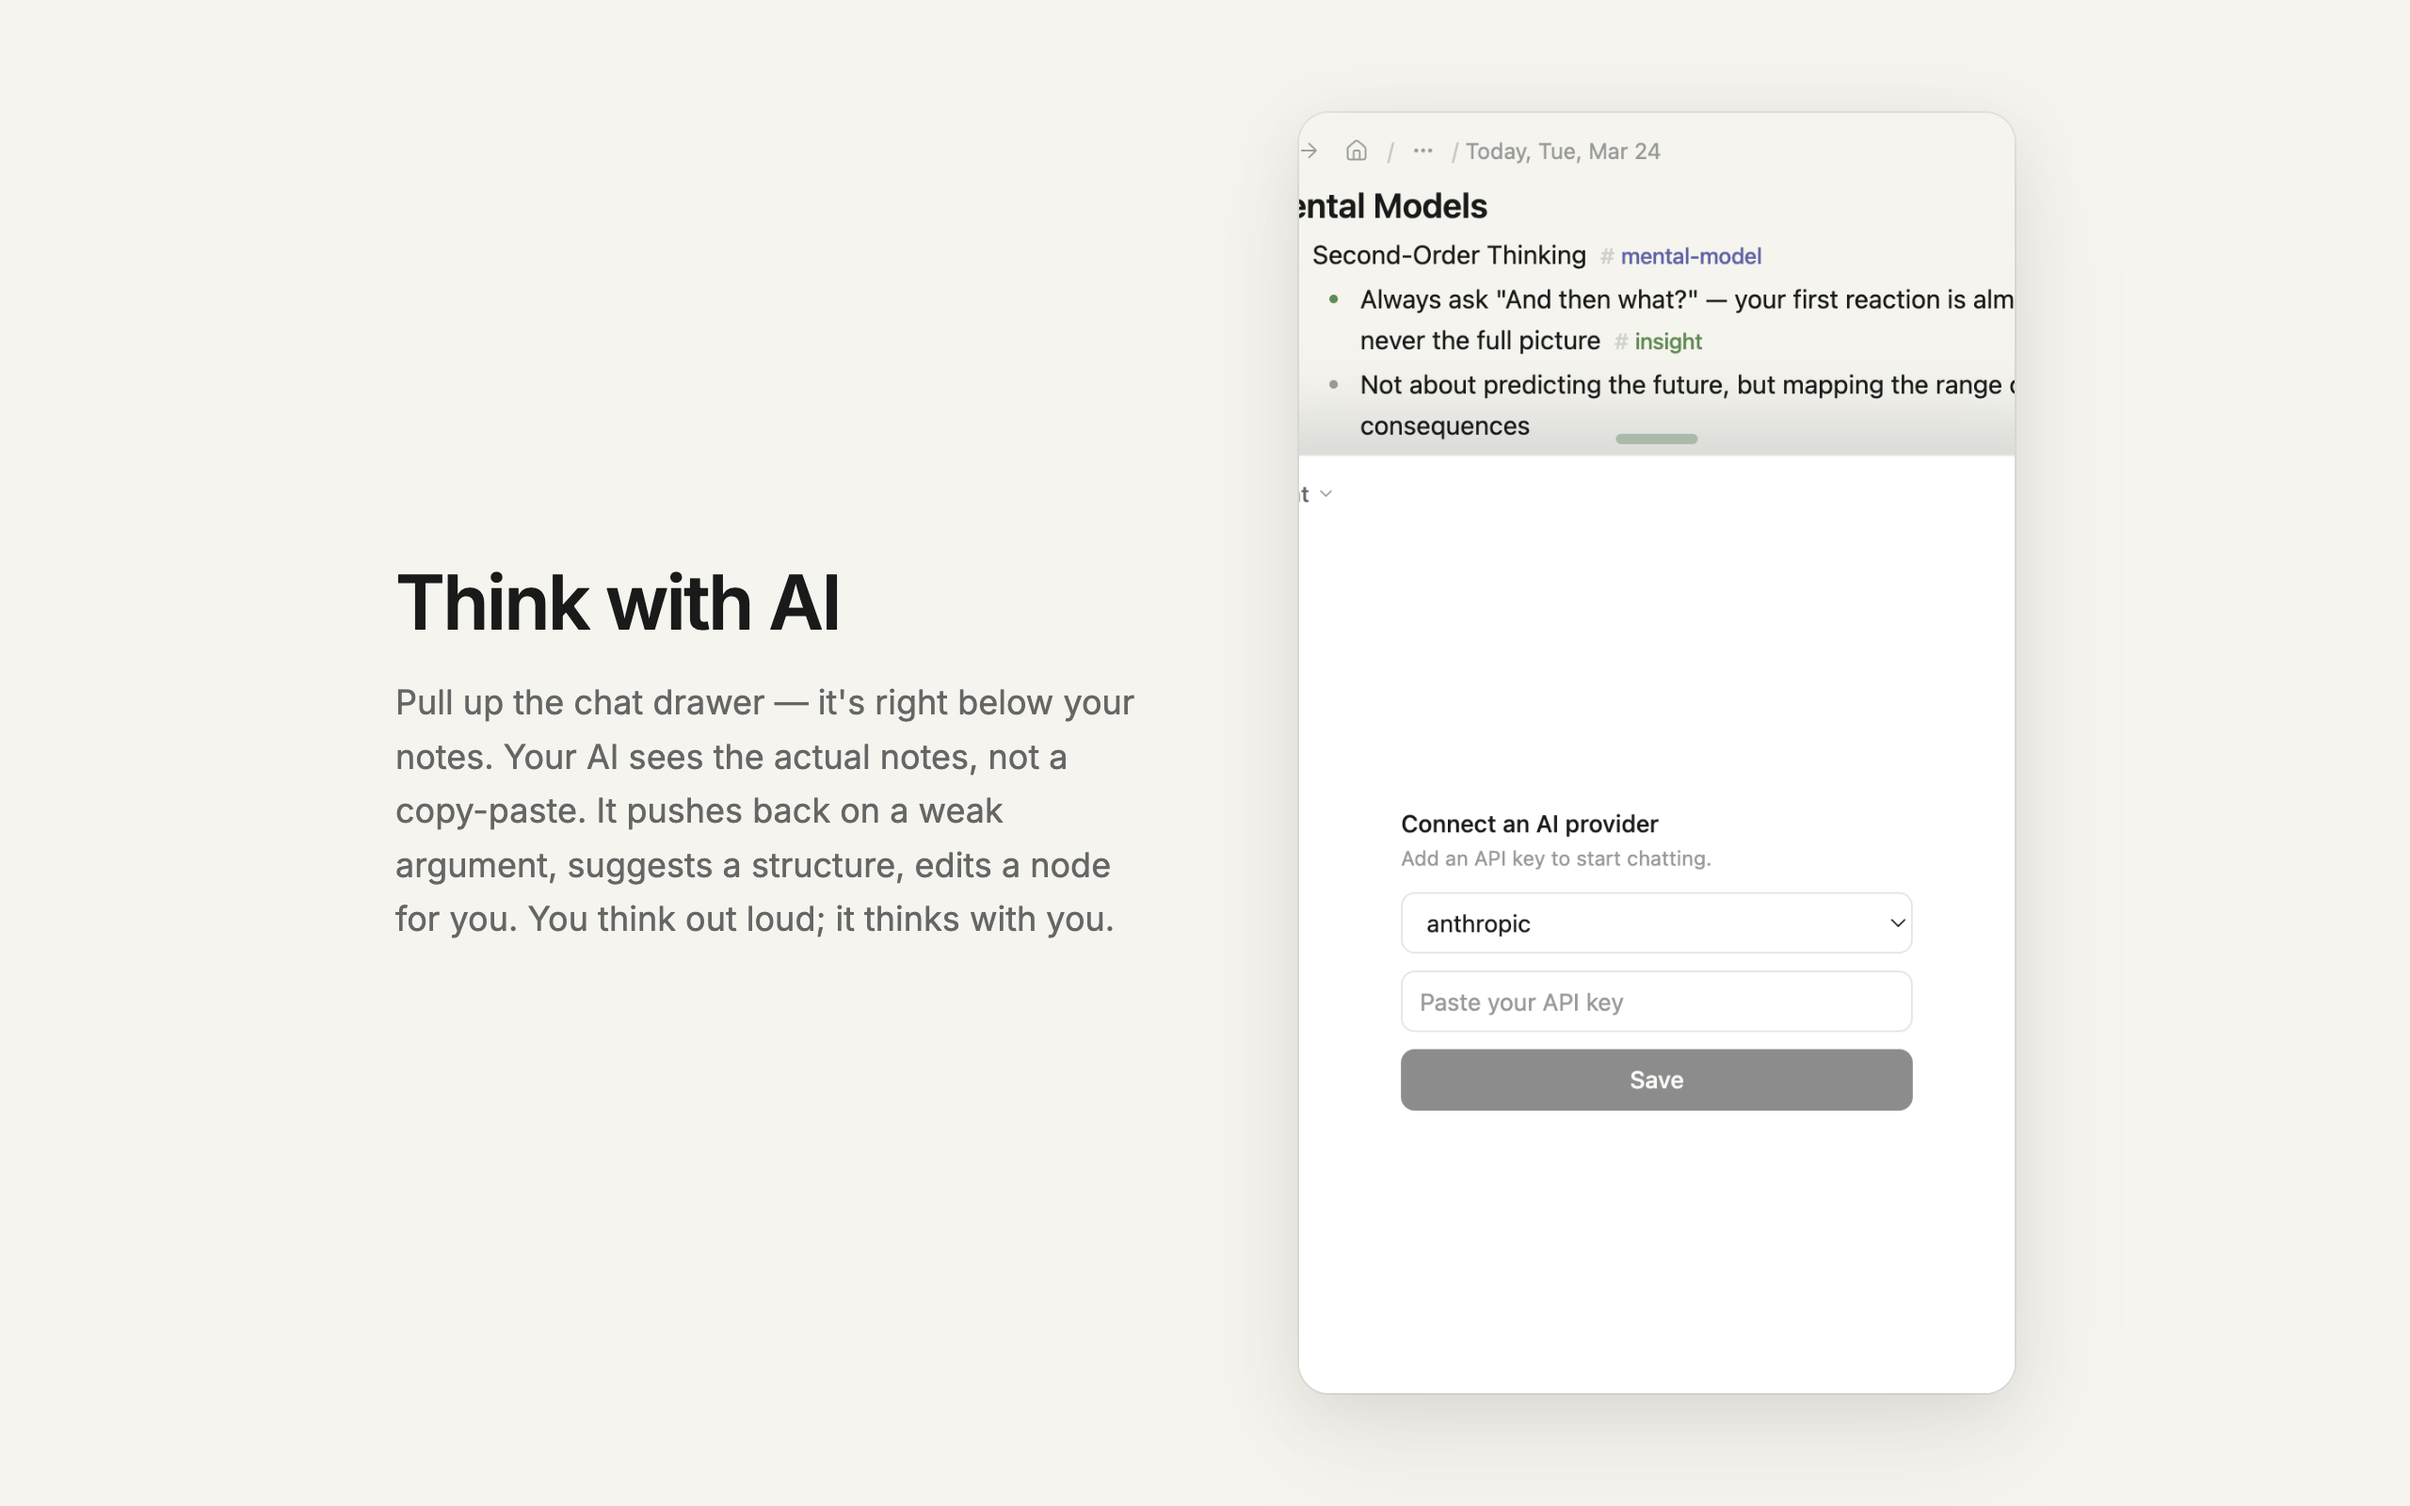
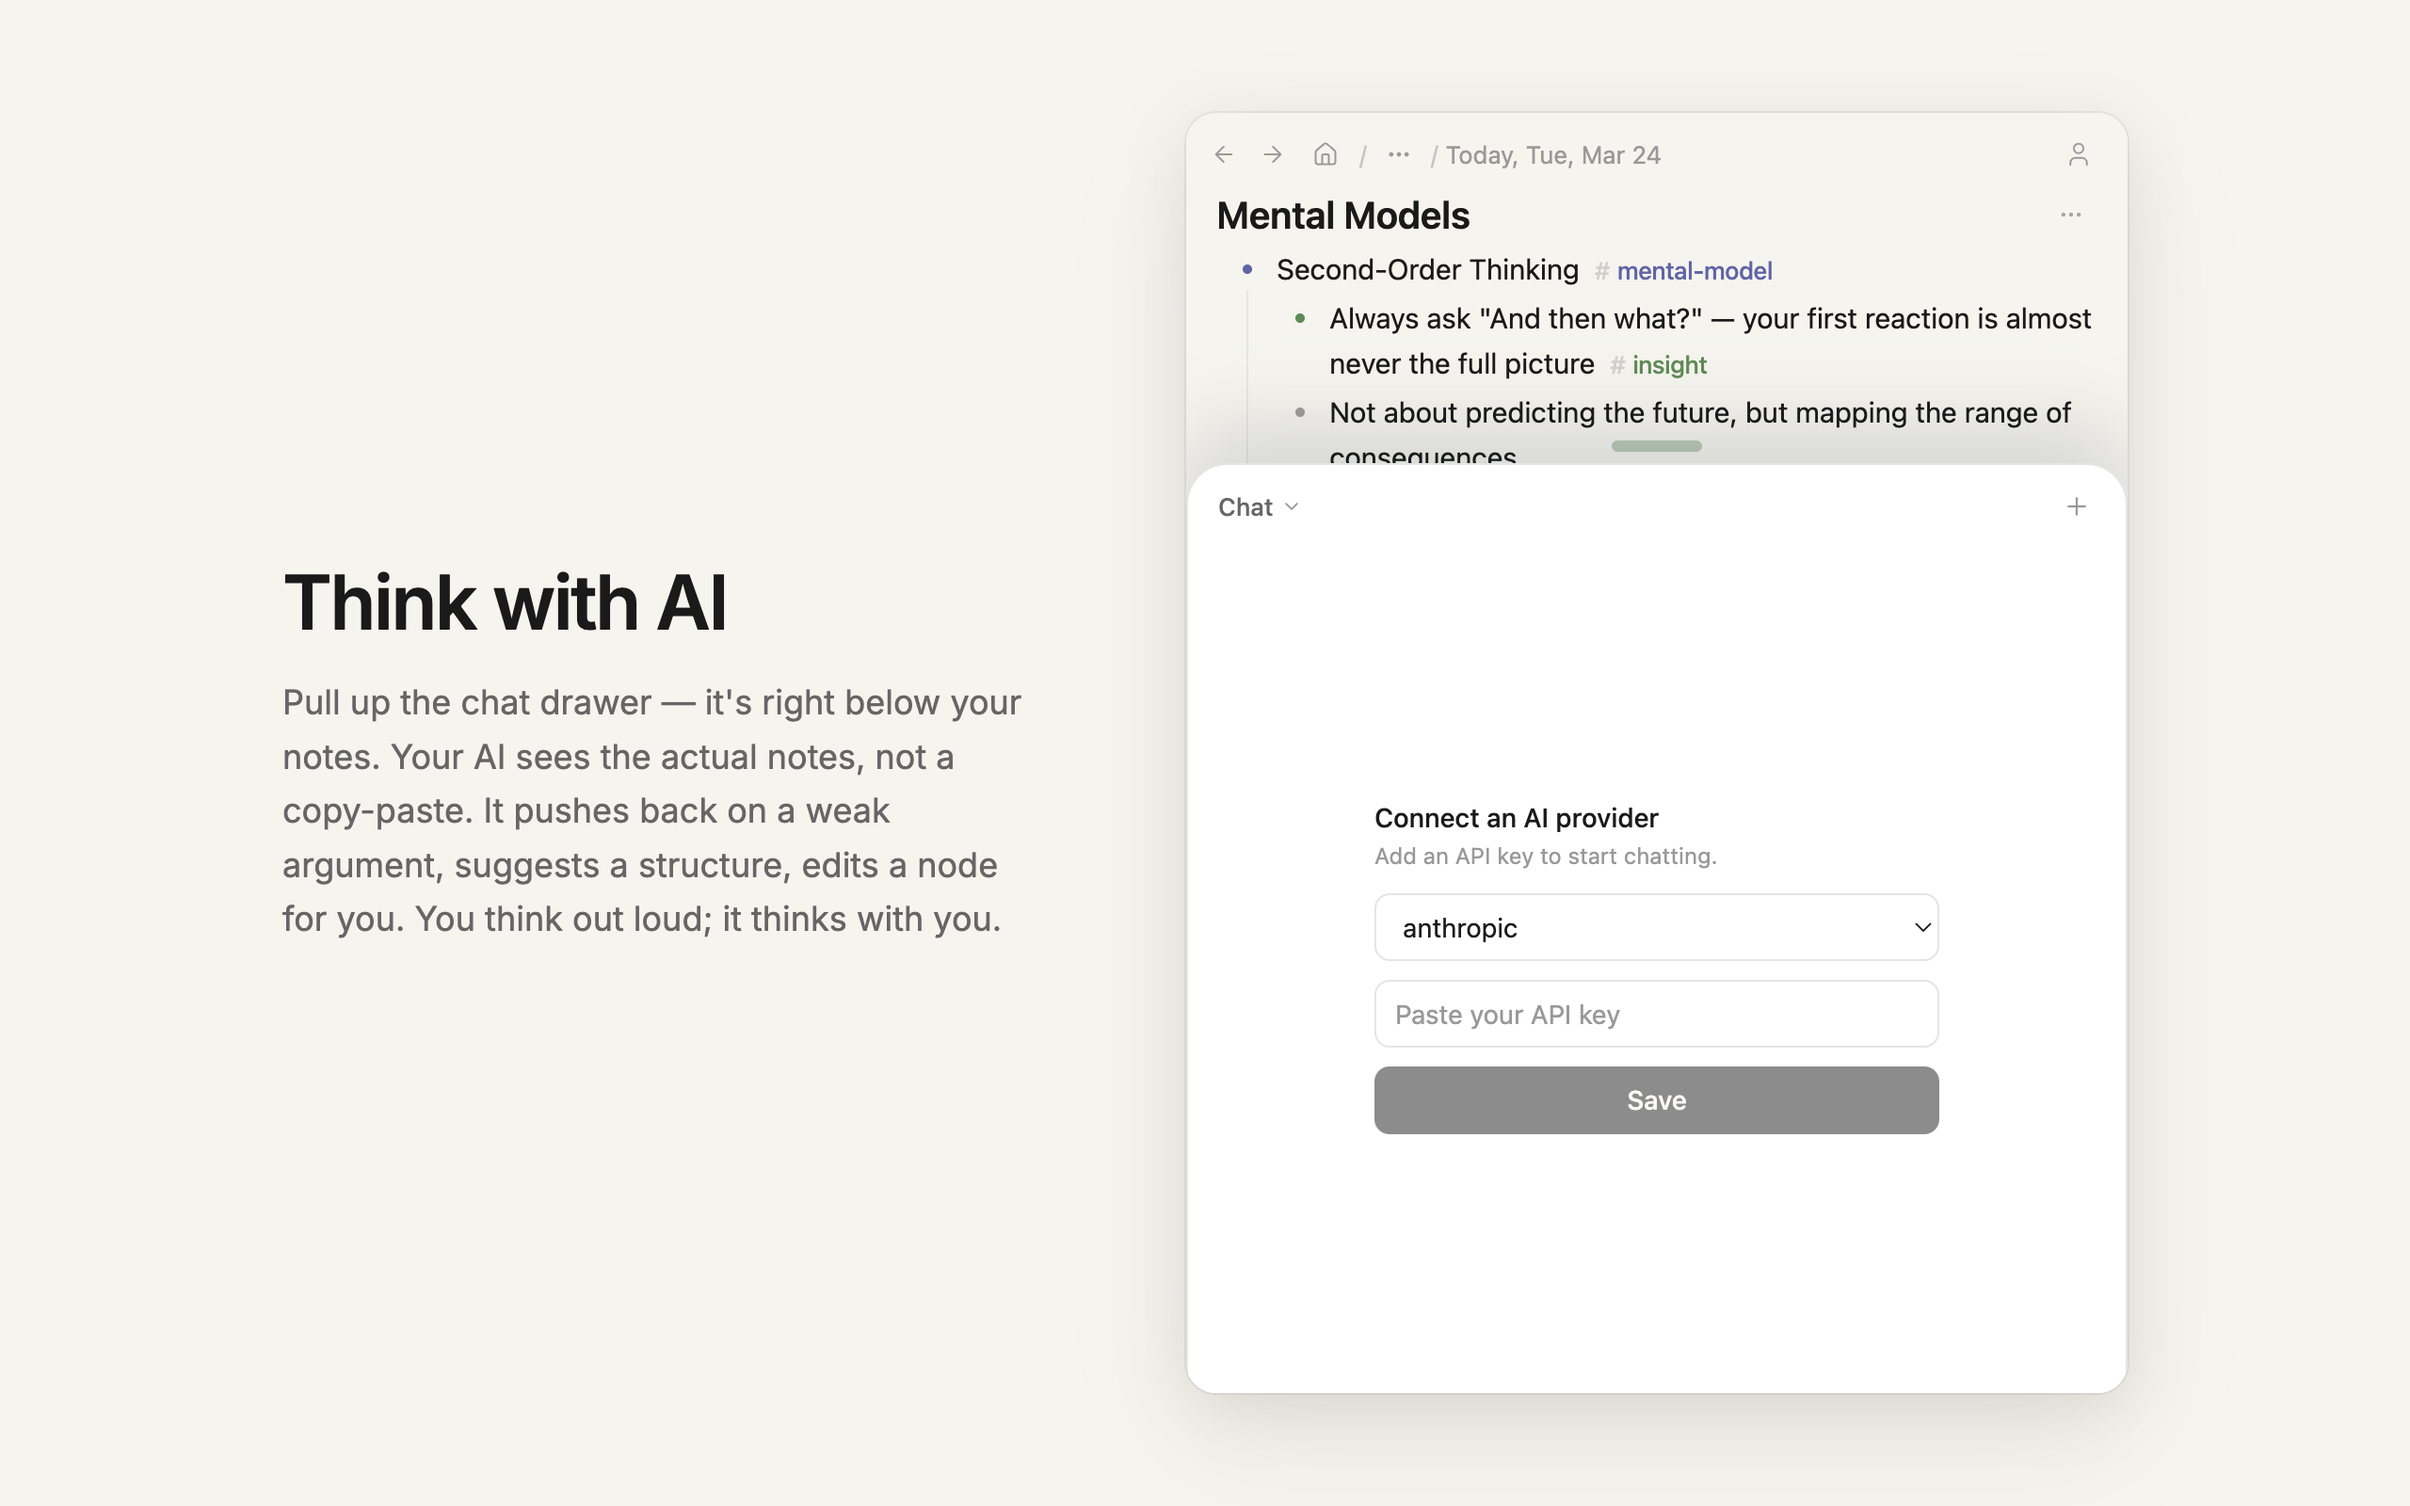
fix: use real screenshots in marquee + fix phone frame clipping
- Marquee now embeds real app screenshot instead of fake HTML mockup
- Phone frame width adjusted from 380px to 500px to match raw image
  aspect ratio (1000×1360 from Retina capture), eliminating edge clipping
- Raw screenshots stored separately (raw-*.png) for template regeneration

Changed region(s): [[0.5, 0.0938, 0.875, 0.9375], [0.125, 0.375, 0.4688, 0.625]]

diff --git a/docs/store/image-sources/promo-marquee.html b/docs/store/image-sources/promo-marquee.html
@@ -50,91 +50,24 @@
   .pill-ai       { background: rgba(225,161,94,0.1); color: #A07830; }
   .pill-arrow { color: #999; font-size: 12px; }
 
-  /* Browser mockup */
+  /* Browser mockup with real screenshot */
   .browser-mock {
-    width: 540px; height: 400px; background: #fff; border-radius: 12px;
+    width: 540px; height: 420px; background: #fff; border-radius: 12px;
     box-shadow: 0 0 0 1px rgba(0,0,0,0.06), 0 4px 12px rgba(0,0,0,0.06), 0 12px 36px rgba(0,0,0,0.08);
     overflow: hidden; display: flex; flex-direction: column;
   }
   .browser-titlebar {
-    height: 32px; background: #f0efea;
+    height: 32px; background: #f0efea; flex-shrink: 0;
     display: flex; align-items: center; padding: 0 12px; gap: 7px;
     border-bottom: 1px solid rgba(0,0,0,0.06);
   }
   .dot { width: 10px; height: 10px; border-radius: 50%; }
   .dot-r { background: #EC6A5E; } .dot-y { background: #F4BF4F; } .dot-g { background: #61C554; }
-  .browser-body { flex: 1; display: flex; overflow: hidden; }
-
-  /* Webpage side */
-  .webpage-side {
-    flex: 1; padding: 18px 20px;
-    border-right: 1px solid rgba(0,0,0,0.06); overflow: hidden;
+  .browser-body {
+    flex: 1; overflow: hidden;
   }
-  .webpage-title { font-size: 14px; font-weight: 600; color: #1A1A1A; margin-bottom: 10px; line-height: 1.3; }
-  .webpage-line { height: 8px; background: rgba(0,0,0,0.06); border-radius: 4px; margin-bottom: 7px; }
-  .webpage-line.short { width: 70%; } .webpage-line.medium { width: 85%; }
-  .webpage-line.highlight { background: rgba(247,236,139,0.5); }
-
-  /* Side panel */
-  .sp-side {
-    width: 220px; display: flex; flex-direction: column; overflow: hidden;
-  }
-
-  /* Outliner area (top) */
-  .sp-outliner {
-    flex: 1; background: #F5F4EE; padding: 14px; overflow: hidden;
-  }
-  .sp-header { font-size: 13px; font-weight: 600; color: #1A1A1A; margin-bottom: 10px; }
-  .sp-node { display: flex; gap: 5px; margin-bottom: 5px; align-items: flex-start; }
-  .sp-bullet { width: 4px; height: 4px; border-radius: 50%; margin-top: 5px; flex-shrink: 0; }
-  .sp-b-default { background: rgba(26,26,26,0.35); }
-  .sp-b-green   { background: #608A55; }
-  .sp-b-blue    { background: #4B7C9E; }
-  .sp-b-amber   { background: #E1A15E; }
-  .sp-bullet-parent {
-    width: 11px; height: 11px; border-radius: 50%;
-    display: flex; align-items: center; justify-content: center;
-    margin-top: 2px; flex-shrink: 0;
-  }
-  .sp-bp-task { background: rgba(96,138,85,0.12); }
-  .sp-bp-task .sp-bp-inner { width: 4px; height: 4px; border-radius: 50%; background: #608A55; }
-  .sp-text { font-size: 10px; color: #1A1A1A; line-height: 1.5; }
-  .sp-tag { font-size: 9px; font-weight: 500; margin-left: 3px; }
-  .sp-tag-hash { color: rgba(153,153,153,0.4); }
-  .sp-tag-green { color: #608A55; }
-  .sp-tag-blue  { color: #4B7C9E; }
-  .sp-tag-amber { color: #A07830; }
-  .sp-indent { margin-left: 16px; }
-  .sp-checkbox {
-    width: 11px; height: 11px; border: 1.5px solid rgba(0,0,0,0.25); border-radius: 3px;
-    margin-top: 2px; flex-shrink: 0;
-  }
-
-  /* Chat drawer (bottom) */
-  .sp-chat {
-    height: 130px; background: #fff; border-top: 1px solid rgba(0,0,0,0.08);
-    padding: 10px 14px; display: flex; flex-direction: column; overflow: hidden;
-  }
-  .chat-label {
-    font-size: 9px; font-weight: 500; color: #999; text-transform: uppercase;
-    letter-spacing: 0.5px; margin-bottom: 8px;
-  }
-  .chat-msg {
-    font-size: 10px; line-height: 1.5; margin-bottom: 8px; padding: 6px 8px;
-    border-radius: 6px;
-  }
-  .chat-user {
-    color: #1A1A1A; background: #F5F4EE;
-    align-self: flex-end; max-width: 85%;
-  }
-  .chat-ai {
-    color: #1A1A1A; background: transparent;
-    max-width: 90%;
-  }
-  .chat-input {
-    margin-top: auto; height: 26px; background: #F5F4EE; border-radius: 6px;
-    display: flex; align-items: center; padding: 0 8px;
-    font-size: 10px; color: #999;
+  .browser-body img {
+    width: 100%; height: 100%; object-fit: cover; object-position: top left;
   }
 </style>
 </head>
@@ -164,71 +97,7 @@
         <div class="dot dot-r"></div><div class="dot dot-y"></div><div class="dot dot-g"></div>
       </div>
       <div class="browser-body">
-        <div class="webpage-side">
-          <div class="webpage-title">Why Great Products Need<br>Fewer Features</div>
-          <div class="webpage-line medium"></div>
-          <div class="webpage-line"></div>
-          <div class="webpage-line short"></div>
-          <div class="webpage-line"></div>
-          <div class="webpage-line highlight"></div>
-          <div class="webpage-line highlight medium"></div>
-          <div class="webpage-line"></div>
-          <div class="webpage-line short"></div>
-          <div class="webpage-line"></div>
-          <div class="webpage-line medium"></div>
-          <div class="webpage-line"></div>
-          <div class="webpage-line short"></div>
-          <div class="webpage-line"></div>
-          <div class="webpage-line highlight"></div>
-          <div class="webpage-line highlight short"></div>
-          <div class="webpage-line"></div>
-          <div class="webpage-line medium"></div>
-          <div class="webpage-line short"></div>
-        </div>
-        <div class="sp-side">
-          <!-- Outliner -->
-          <div class="sp-outliner">
-            <div class="sp-header">Today, Mar 24</div>
-            <div class="sp-node">
-              <div class="sp-bullet-parent sp-bp-task"><div class="sp-bp-inner"></div></div>
-              <div>
-                <span class="sp-text">Onboarding redesign</span>
-              </div>
-            </div>
-            <div class="sp-node sp-indent">
-              <div class="sp-checkbox"></div>
-              <div>
-                <span class="sp-text">Review user interviews</span>
-                <span class="sp-tag"><span class="sp-tag-hash">#</span><span class="sp-tag-green">Task</span></span>
-              </div>
-            </div>
-            <div class="sp-node sp-indent">
-              <div class="sp-bullet sp-b-default"></div>
-              <span class="sp-text">Map drop-off points</span>
-            </div>
-            <div class="sp-node">
-              <div class="sp-bullet sp-b-green"></div>
-              <div>
-                <span class="sp-text">Design is invisible when done right</span>
-                <span class="sp-tag"><span class="sp-tag-hash">#</span><span class="sp-tag-green">insight</span></span>
-              </div>
-            </div>
-            <div class="sp-node">
-              <div class="sp-bullet sp-b-blue"></div>
-              <div>
-                <span class="sp-text">Atomic Habits — James Clear</span>
-                <span class="sp-tag"><span class="sp-tag-hash">#</span><span class="sp-tag-blue">book</span></span>
-              </div>
-            </div>
-          </div>
-          <!-- Chat drawer -->
-          <div class="sp-chat">
-            <div class="chat-label">Chat</div>
-            <div class="chat-msg chat-user">What connects my reading notes to the onboarding project?</div>
-            <div class="chat-msg chat-ai">Your insight about "invisible design" maps directly to the drop-off at step 3 — users don't notice good onboarding…</div>
-            <div class="chat-input">Ask anything…</div>
-          </div>
-        </div>
+        <img src="../images/raw-marquee.png" alt="soma — Today's journal">
       </div>
     </div>
   </div>

diff --git a/docs/store/image-sources/screenshot-4-ai.html b/docs/store/image-sources/screenshot-4-ai.html
@@ -20,7 +20,7 @@
   .text-side p { font-size: 18px; color: #666; line-height: 1.6; }
 
   .phone-frame {
-    width: 380px; height: 680px; background: #fff; border-radius: 16px;
+    width: 500px; height: 680px; background: #fff; border-radius: 16px;
     box-shadow: 0 0 0 1px rgba(0,0,0,0.06), 0 8px 32px rgba(0,0,0,0.08), 0 24px 64px rgba(0,0,0,0.06);
     overflow: hidden;
   }
@@ -33,7 +33,7 @@
     <p>Pull up the chat drawer — it's right below your notes. Your AI sees the actual notes, not a copy-paste. It pushes back on a weak argument, suggests a structure, edits a node for you. You think out loud; it thinks with you.</p>
   </div>
   <div class="phone-frame">
-    <img src="../images/screenshot-4-ai.png" alt="Think with AI">
+    <img src="../images/raw-ai.png" alt="Think with AI">
   </div>
 </body>
 </html>

diff --git a/docs/store/image-sources/screenshot-3-capture.html b/docs/store/image-sources/screenshot-3-capture.html
@@ -21,7 +21,7 @@
   .text-side p { font-size: 18px; color: #666; line-height: 1.6; }
 
   .phone-frame {
-    width: 380px; height: 680px; background: #fff; border-radius: 16px;
+    width: 500px; height: 680px; background: #fff; border-radius: 16px;
     box-shadow: 0 0 0 1px rgba(0,0,0,0.06), 0 8px 32px rgba(0,0,0,0.08), 0 24px 64px rgba(0,0,0,0.06);
     overflow: hidden;
   }
@@ -34,7 +34,7 @@
     <p>Highlight a sentence on any page — it becomes a note instantly. Clip the whole page if you want. Tomorrow your journal references it. Everything stays connected because it was never in a separate app.</p>
   </div>
   <div class="phone-frame">
-    <img src="../images/screenshot-3-connect.png" alt="Capture">
+    <img src="../images/raw-capture.png" alt="Capture">
   </div>
 </body>
 </html>

diff --git a/docs/store/image-sources/screenshot-2-structure.html b/docs/store/image-sources/screenshot-2-structure.html
@@ -20,7 +20,7 @@
   .text-side p { font-size: 18px; color: #666; line-height: 1.6; }
 
   .phone-frame {
-    width: 380px; height: 680px; background: #fff; border-radius: 16px;
+    width: 500px; height: 680px; background: #fff; border-radius: 16px;
     box-shadow: 0 0 0 1px rgba(0,0,0,0.06), 0 8px 32px rgba(0,0,0,0.08), 0 24px 64px rgba(0,0,0,0.06);
     overflow: hidden;
   }
@@ -33,7 +33,7 @@
     <p>Nest ideas, drag to reorganize, tag with structured fields. In five minutes, a scattered thought becomes a structure you can build on. That's what an outliner does that a flat doc never will.</p>
   </div>
   <div class="phone-frame">
-    <img src="../images/screenshot-2-structure.png" alt="Structure">
+    <img src="../images/raw-structure.png" alt="Structure">
   </div>
 </body>
 </html>

diff --git a/docs/store/image-sources/screenshot-1-overview.html b/docs/store/image-sources/screenshot-1-overview.html
@@ -21,7 +21,7 @@
   .text-side p { font-size: 18px; color: #666; line-height: 1.6; }
 
   .phone-frame {
-    width: 380px; height: 680px; background: #fff; border-radius: 16px;
+    width: 500px; height: 680px; background: #fff; border-radius: 16px;
     box-shadow: 0 0 0 1px rgba(0,0,0,0.06), 0 8px 32px rgba(0,0,0,0.08), 0 24px 64px rgba(0,0,0,0.06);
     overflow: hidden;
   }
@@ -34,7 +34,7 @@
     <p>A structured notebook and AI thinking partner, right in your browser sidebar. Capture ideas while you read, organize them into structure, and think with AI alongside your notes.</p>
   </div>
   <div class="phone-frame">
-    <img src="../images/screenshot-1-overview.png" alt="Overview">
+    <img src="../images/raw-overview.png" alt="Overview">
   </div>
 </body>
 </html>
